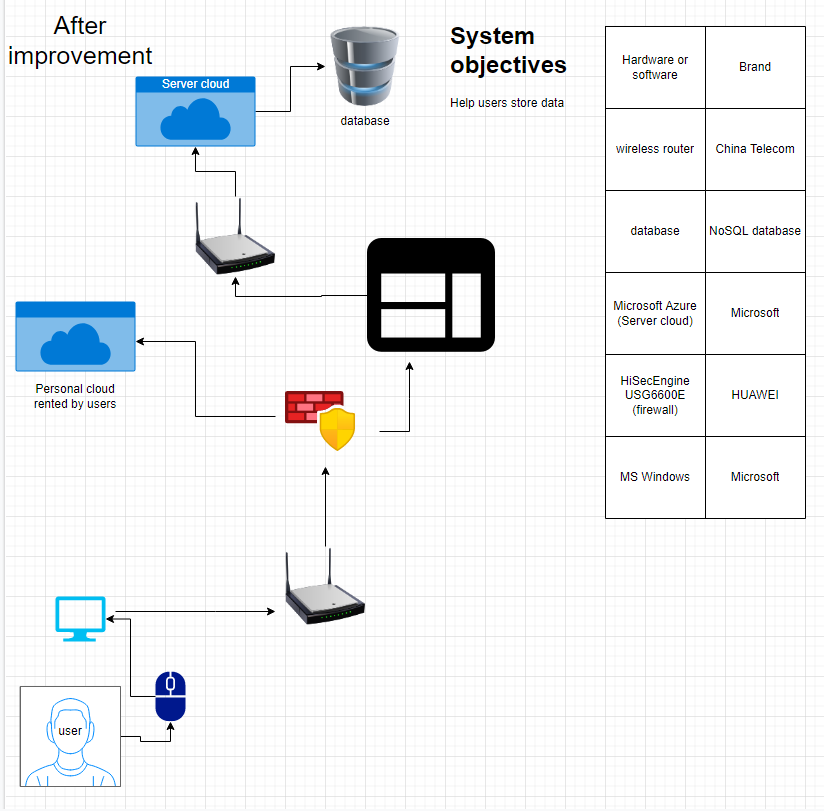
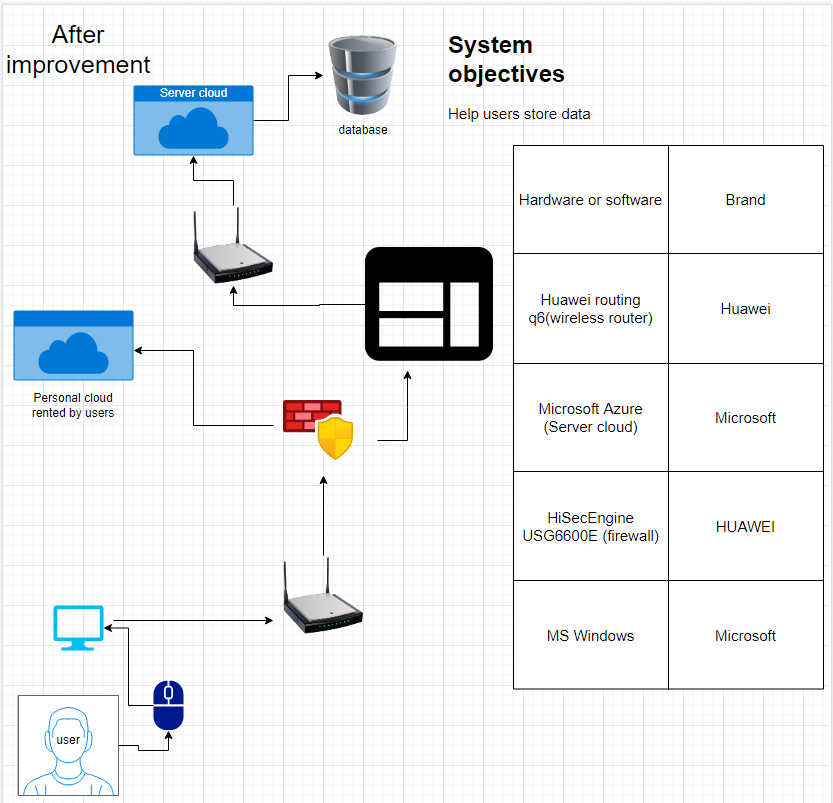
Add files via upload

diff --git a/Resume.html b/Resume.html
@@ -1,7 +1,9 @@
+
 <!DOCTYPE html>
 <html>
 <head>
       <link rel="icon"  href="favicon.ico">
+    <link href="styles2.css" rel="stylesheet" media="all" />
 </head>
 <body>
 <html lang="en" >
@@ -32,12 +34,12 @@ body {
 <html lang="en" >
 <head>
   <meta charset="UTF-8">
-  <title>CodePen - A Pen by While</title>
+  <title> While</title>
   <link rel="stylesheet" href="./style.css">
 
 </head>
 <body>
-<!-- partial:index.partial.html -->
+
 <!DOCTYPE html>
 <html>
 
@@ -52,7 +54,7 @@ body {
 <h3 class='byline'>Article By: While</h3>
 <div align="center">
   <div align="center">
-<img src="While.jpg" alt="Trulli" width="500" height="600">
+<img src="While.jpg" alt="Trulli" width="250" height="300">
 </div>
 <h1>While</h1>
   
@@ -115,7 +117,7 @@ table, th, td {
 </body>
 
 </html>
-<!-- partial -->
+
 <footer>
   <p>Posted by: While</p>
   <p>Contact information: <a href="mailto:2247953114@qq.com">2247953114@qq.com</a>.</p>

diff --git a/It project.html b/It project.html
@@ -74,14 +74,9 @@ table, th, td {
     <th>Brand</th>
   </tr>
   <tr>
-    <td>wireless router</td>
-    <td>China Telecom</td>
+    <td>Huawei routing q6(wireless router)</td>
+    <td>Huawei</td>
   </tr>
-  <tr>
-    <td>database</td>
-    <td>NoSQL database</td>
-  </tr>
-<tr>
     <td>Microsoft Azure (Server cloud)</td>
     <td>Microsoft</td>
   </tr>

diff --git a/index.html b/index.html
@@ -17,7 +17,7 @@ body {
 
 </head>
 <body>
-<!-- partial:index.partial.html -->
+
 <nav>
 <ul>
 <li><a href="index.html"><i class="fas fa-home" aria-hidden="true"></i> Home</a></li>
